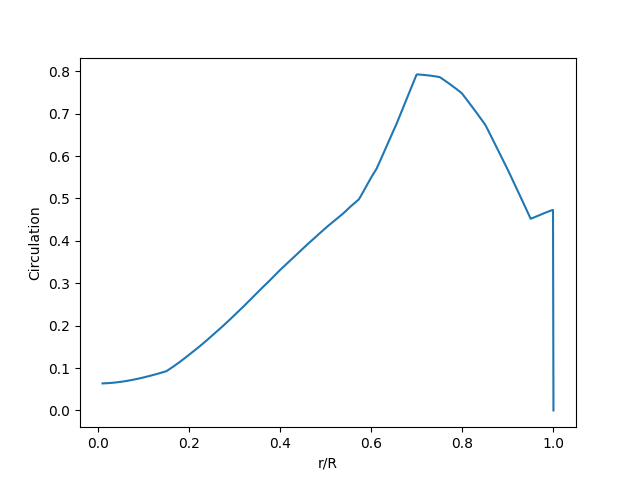
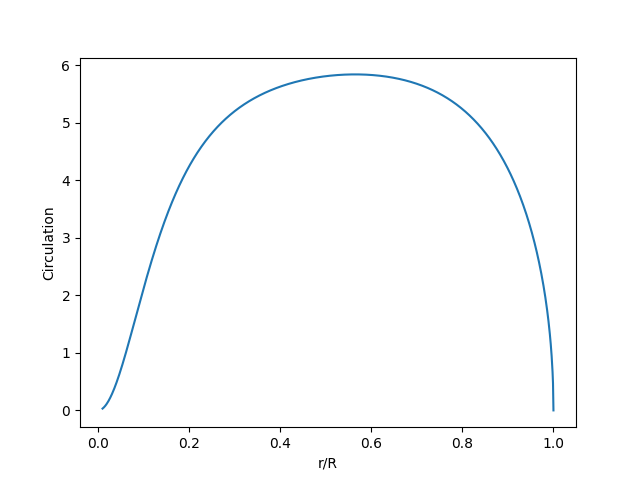
vdashの計算にr/Rの端から2番目のpointを使ってスカラーで計算したら一応動いてそれっぽくなったが理論的には間違えている。そもそもこの理論を設計点以外の解析に用いることがでっちあげなので、ほかの文献やソフトがどうしているのか検証の必要がある

diff --git a/perform_analysis.py b/perform_analysis.py
@@ -49,15 +49,17 @@ airfoil_cd = np.interp(alpha, airfoil_alpha, airfoil_cd)
 
 # v_dash = fsolve(equation, 1)
 
-v_dash = np.zeros_like(r_R)  # v_dashを初期化
+# v_dash = np.zeros_like(r_R)  # v_dashを初期化
 
-for i in range(len(r_R)):
-    def equation(v_dash_i):
-        aoa = beta[i] - np.arctan(x[i] * R / r[i] * (1 + 1/2 * v_dash_i / V))
-        cl = np.interp(aoa, alpha, airfoil_cl)
-        return V * c_R[i] * cl / v_dash_i - 4 * math.pi / B * lamda / np.sqrt(1 + x[i]**2) * G[i]
+# for i in range(len(r_R)):
 
-    v_dash[i] = fsolve(equation, 1)[0]
+def equation(v_dash_i):
+    i = n - 2
+    aoa = beta[i] - np.arctan(x[i] * R / r[i] * (1 + 1/2 * v_dash_i / V))
+    cl = np.interp(aoa, alpha, airfoil_cl)
+    return V * c_R[i] * cl / v_dash_i - 4 * math.pi / B * lamda / np.sqrt(1 + x[i]**2) * G[i]
+
+v_dash = fsolve(equation, 1)
 
 # Calculate Circulation
 Gamma = 2 * np.pi * r * v_dash * x / (1 + x**2) * F / B
@@ -71,9 +73,9 @@ plt.ylabel('Circulation')
 plt.savefig('circulation.png')
 # plot v_dash
 plt.clf()
-plt.plot(r_R, v_dash)
-# set y-axis limit
-plt.ylim(0, 100.5)
-plt.xlabel('r/R')
-plt.ylabel('v_dash')
-plt.savefig('v_dash.png')
+# plt.plot(r_R, v_dash)
+# # set y-axis limit
+# plt.ylim(0, 100.5)
+# plt.xlabel('r/R')
+# plt.ylabel('v_dash')
+# plt.savefig('v_dash.png')
